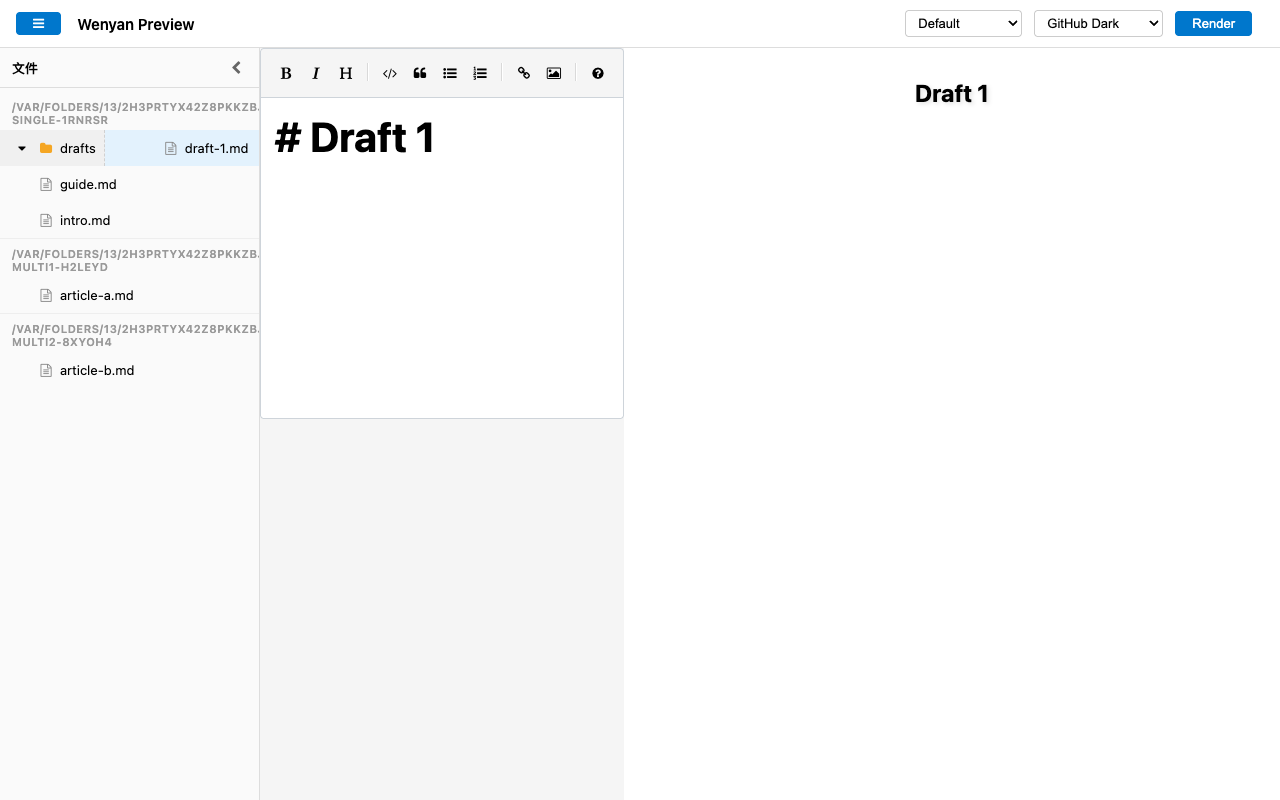
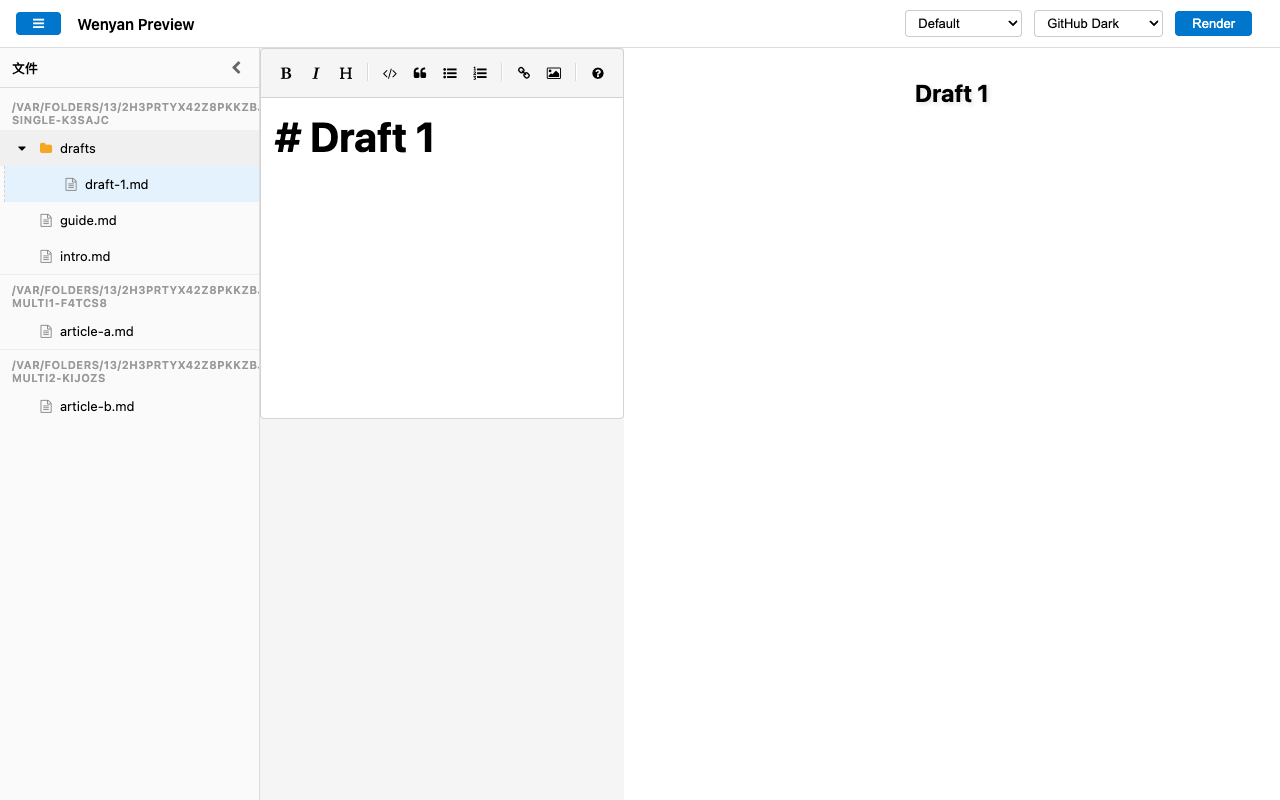
fix: 目录项改为 block 布局 + content 内层容器，子项正确在下方显示
- .file-tree-item: display:block, 不再 flex
- 新增 .file-tree-content: display:flex 内层容器，图标+文字包入
- data-depth 缩进移至 .file-tree-content padding-left
- hover/active 态移至 .file-tree-content
- 嵌套 ul 作为 block 子元素，自然在目录项下方排列

diff --git a/src/preview/template.ts b/src/preview/template.ts
@@ -89,13 +89,16 @@ html, body { height: 100%; font-family: system-ui, -apple-system, sans-serif; ba
 }
 
 .file-tree-item {
-  display: flex; align-items: center; gap: 4px;
-  height: 36px; padding: 0 12px; cursor: pointer;
+  display: block; cursor: pointer;
   white-space: nowrap; overflow: hidden;
   text-overflow: ellipsis; user-select: none;
 }
-.file-tree-item:hover { background: #f0f0f0; }
-.file-tree-item.active { background: #e3f2fd; }
+.file-tree-content {
+  display: flex; align-items: center; gap: 4px;
+  height: 36px; padding: 0 12px;
+}
+.file-tree-content:hover { background: #f0f0f0; }
+.file-tree-item.active .file-tree-content { background: #e3f2fd; }
 .file-tree-icon { width: 20px; text-align: center; flex-shrink: 0; }
 .file-tree-icon .fa-folder { color: #f5a623; }
 .file-tree-item .fa-file-text-o { color: #888; }
@@ -108,10 +111,10 @@ html, body { height: 100%; font-family: system-ui, -apple-system, sans-serif; ba
 }
 
 /* 基于深度的缩进 */
-.file-tree-item[data-depth="0"] { padding-left: 12px; }
-.file-tree-item[data-depth="1"] { padding-left: 32px; }
-.file-tree-item[data-depth="2"] { padding-left: 52px; }
-.file-tree-item[data-depth="3"] { padding-left: 72px; }
+.file-tree-item[data-depth="0"] .file-tree-content { padding-left: 12px; }
+.file-tree-item[data-depth="1"] .file-tree-content { padding-left: 32px; }
+.file-tree-item[data-depth="2"] .file-tree-content { padding-left: 52px; }
+.file-tree-item[data-depth="3"] .file-tree-content { padding-left: 72px; }
 
 .file-tree-section + .file-tree-section { border-top: 1px solid #eee; }
 .file-tree-section-header {
@@ -357,6 +360,8 @@ function renderTree(nodes, depth) {
     var li = document.createElement('li');
     li.className = 'file-tree-item';
     li.setAttribute('data-depth', String(depth));
+    var content = document.createElement('div');
+    content.className = 'file-tree-content';
     if (node.type === 'dir') {
       var icon = document.createElement('span');
       icon.className = 'file-tree-icon';
@@ -366,9 +371,10 @@ function renderTree(nodes, depth) {
       folderIcon.innerHTML = '<i class="fa fa-folder"></i>';
       var name = document.createElement('span');
       name.textContent = node.name;
-      li.appendChild(icon);
-      li.appendChild(folderIcon);
-      li.appendChild(name);
+      content.appendChild(icon);
+      content.appendChild(folderIcon);
+      content.appendChild(name);
+      li.appendChild(content);
       if (node.children && node.children.length > 0) {
         var childUl = renderTree(node.children, depth + 1);
         childUl.style.display = 'none';
@@ -391,7 +397,7 @@ function renderTree(nodes, depth) {
         })(li);
       }
     } else {
-      (function(li, node) {
+      (function(li, node, content) {
         var spacer = document.createElement('span');
         spacer.className = 'file-tree-icon';
         var fileIcon = document.createElement('span');
@@ -399,14 +405,15 @@ function renderTree(nodes, depth) {
         fileIcon.innerHTML = '<i class="fa fa-file-text-o"></i>';
         var name = document.createElement('span');
         name.textContent = node.name;
-        li.appendChild(spacer);
-        li.appendChild(fileIcon);
-        li.appendChild(name);
+        content.appendChild(spacer);
+        content.appendChild(fileIcon);
+        content.appendChild(name);
+        li.appendChild(content);
         li.onclick = function(e) {
           e.stopPropagation();
           loadFileContent(li, node.path);
         };
-      })(li, node);
+      })(li, node, content);
     }
     ul.appendChild(li);
   }